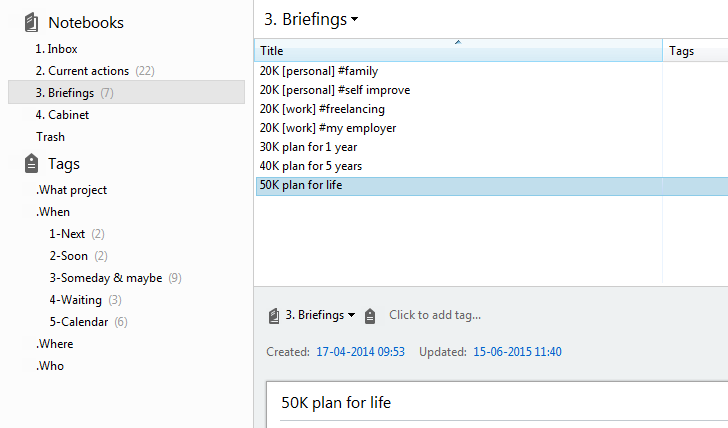
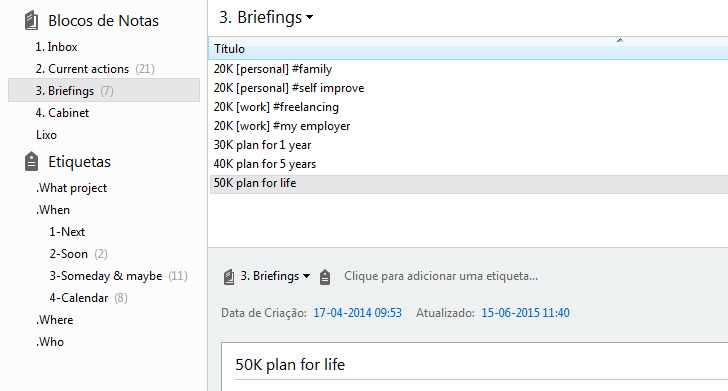
+1.3.20

diff --git a/README.md b/README.md
@@ -153,8 +153,7 @@ Main differences (check also [how does it look](#how-does-it-look)):
            1-Next (next actions to be done)
            2-Soon (actions in the queue to get done)
            3-Someday & maybe (actions to get done later/someday & maybe)
-           4-Waiting (actions with a trigger/fuzzy date to get done)
-           5-Calendar (actions with a precise/deadline date to get done)
+           4-Calendar (actions with a precise/deadline date or with a trigger/fuzzy date to get done)
 
 ####Actions:
 
